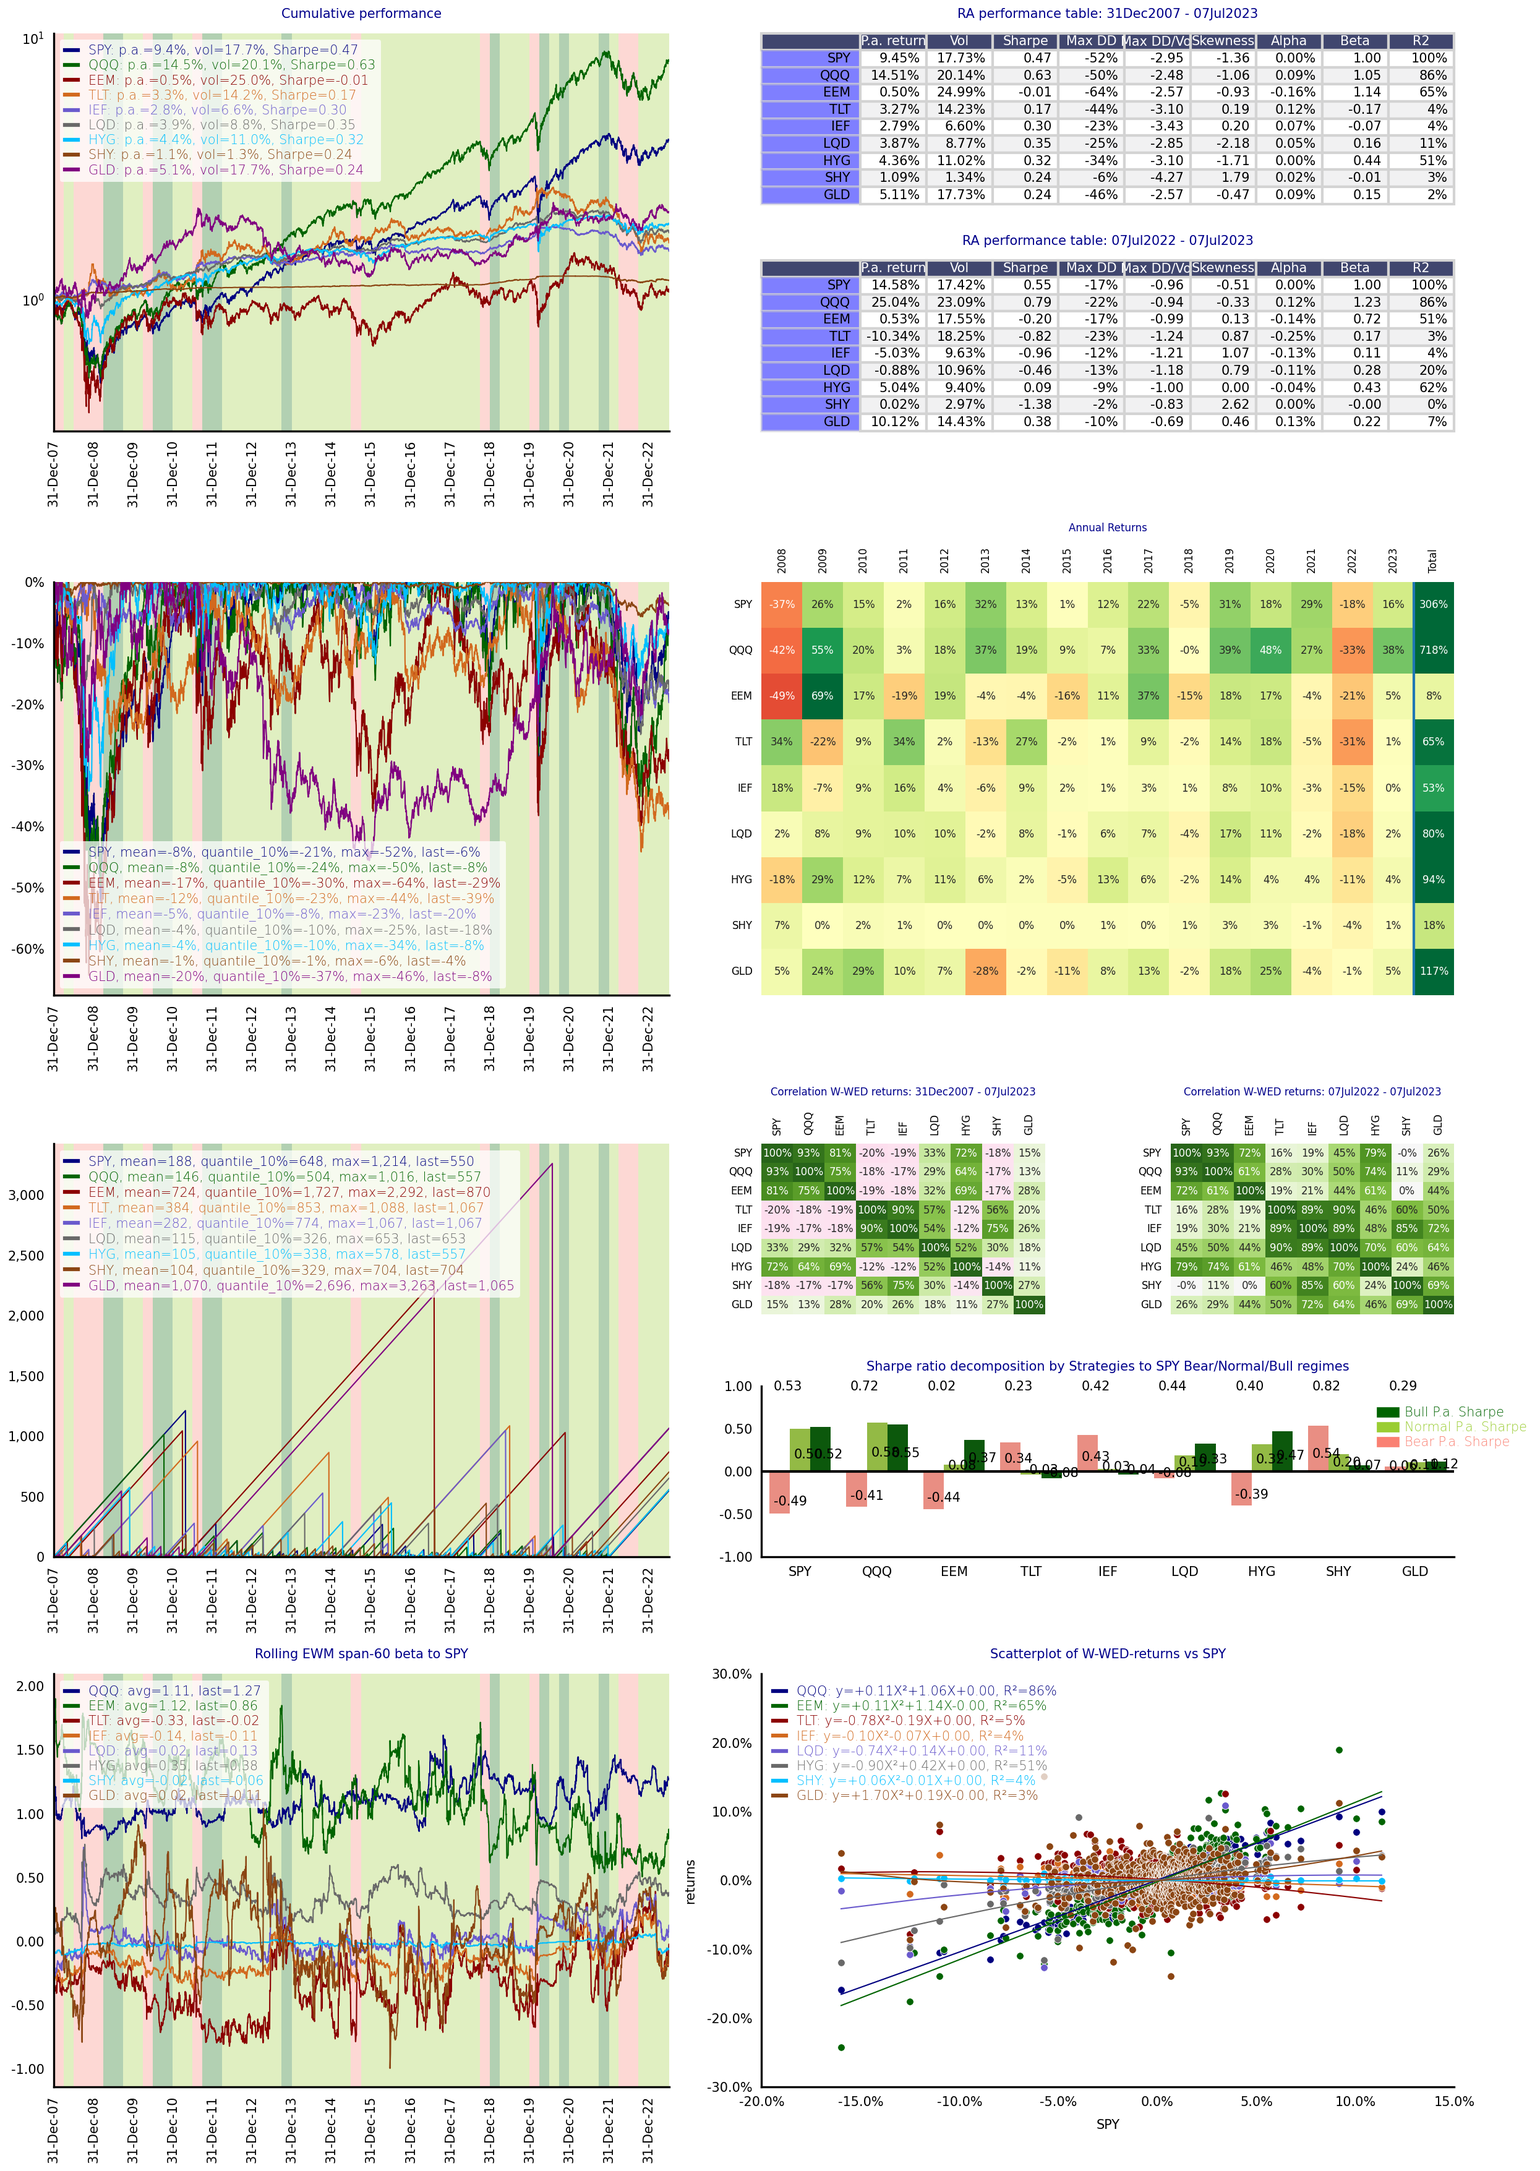
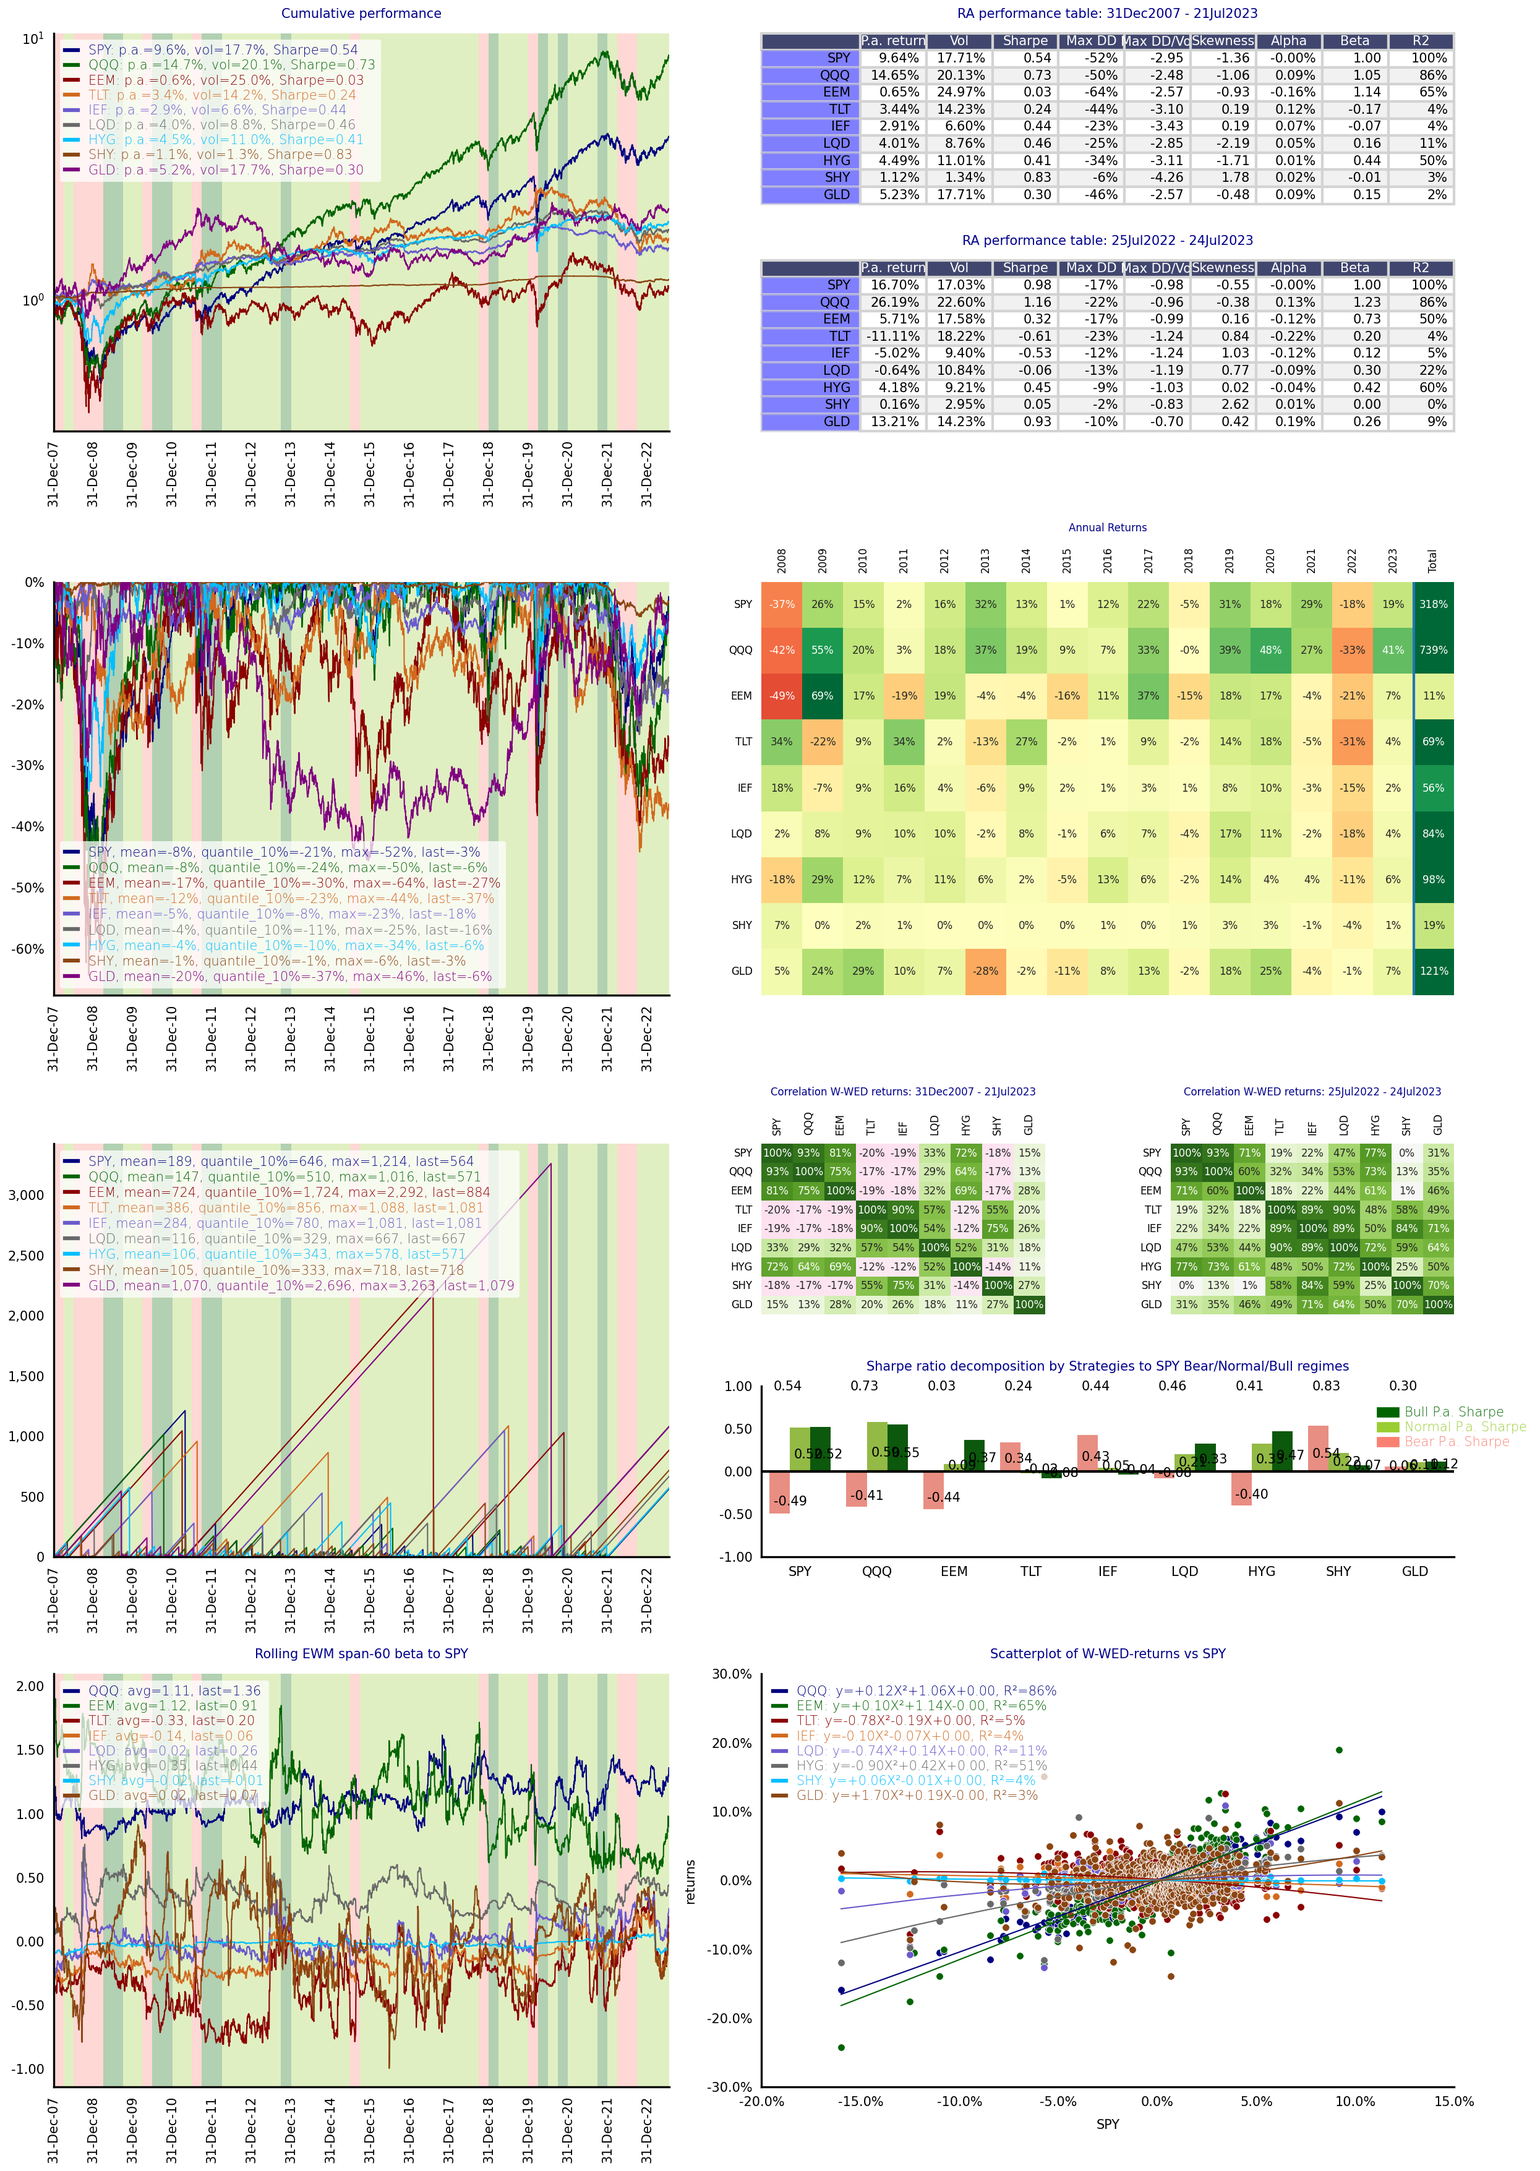
update illustrations

diff --git a/qis/utils/dates.py b/qis/utils/dates.py
@@ -23,7 +23,7 @@ WEEKDAYS: List[str] = ['Monday', 'Tuesday', 'Wednesday', 'Thursday', 'Friday', '
 
 BUS_DAYS_PER_YEAR = 252  # applied for volatility normalization
 WEEK_DAYS_PER_YEAR = 260  # calendar days excluding weekends in a year
-CALENDAR_DAYS_PER_YEAR = 360
+CALENDAR_DAYS_PER_YEAR = 365
 CALENDAR_DAYS_IN_MONTH = 30
 CALENDAR_DAYS_PER_YEAR_SHARPE = 365.25  # for total return computations for Sharpe
 
@@ -38,6 +38,100 @@ def get_current_time_with_tz(tz: Optional[str] = 'UTC',
     if days_offset is not None:
         t = t + pd.DateOffset(days=days_offset)
     return t
+
+
+def get_time_to_maturity(maturity_time: pd.Timestamp,
+                         value_time: pd.Timestamp,
+                         is_floor_at_zero: bool = True,
+                         af: float = 365
+                         ) -> float:
+    """
+    return annualised difference between mat_date and value_time
+    """
+    seconds_per_year = af * 24 * 60 * 60  # days, hours, minute, seconds
+    ttm = (maturity_time - value_time).total_seconds() / seconds_per_year
+    if is_floor_at_zero and ttm < 0.0:
+        ttm = 0.0
+    return ttm
+
+
+def get_period_days(freq: str = 'B',
+                    is_calendar: bool = False
+                    ) -> Tuple[int, float]:
+    """
+    for given frequency return number of days in the period
+    is_calendar = True should return int for rolling and resample in pandas
+    an_f will return the number of period in year
+    consistent with using 252 for vol annualization
+    """
+    an_days = 365 if is_calendar else 252
+    if freq in ['1M']:
+        days = 1.0 / 24.0 / 60.0
+        an_f = an_days * 24.0 * 60.0
+    elif freq in ['5M']:
+        days = 1.0 / 24.0 / 12.0
+        an_f = an_days * 24.0 * 12.0
+    elif freq in ['15M', '15T']:
+        days = 1.0 / 24.0 / 12.0
+        an_f = an_days * 24.0 * 4.0
+    elif freq in ['H']:
+        days = 1.0 / 24.0
+        an_f = an_days * 24.0
+    elif freq in ['D']:  # for 'D' always use 365
+        days = 1
+        an_f = 365
+    elif freq in ['B', 'C']:
+        days = 1
+        an_f = an_days
+    elif freq in ['W', 'W-MON', 'W-TUE', 'W-WED', 'W-THU', 'W-FRI', 'W-SAT', 'W-SUN']:
+        days = 7 if is_calendar else 5
+        an_f = 52
+    elif freq in ['SM', '2W', '2W-MON', '2W-TUE', '2W-WED', '2W-THU', '2W-FRI', '2W-SAT', '2W-SUN']:
+        days = 14 if is_calendar else 10
+        an_f = 26
+    elif freq in ['3W', '3W-MON', '3W-TUE', '3W-WED', '3W-THU', '3W-FRI', '3W-SAT', '3W-SUN']:
+        days = 21 if is_calendar else 15
+        an_f = 17.33
+    elif freq in ['4W', '4W-MON', '4W-TUE', '4W-WED', '4W-THU', '4W-FRI', '4W-SAT', '4W-SUN']:
+        days = 28 if is_calendar else 20
+        an_f = 13
+    elif freq in ['1M', 'M', 'BM', 'MS', 'BMS']:
+        days = 30 if is_calendar else 21
+        an_f = 12
+    elif freq in ['2M', '2BM', '2MS', '2BMS']:
+        days = 60 if is_calendar else 42
+        an_f = 6
+    elif freq in ['Q', 'DQ', 'BQ', 'QS', 'BQS', 'Q-DEC', 'Q-JAN', 'Q-FEB']:
+        days = 91 if is_calendar else 63
+        an_f = 4
+    elif freq in ['2Q', '2BQ', '2QS', '2BQS']:
+        days = 182 if is_calendar else 126
+        an_f = 2
+    elif freq in ['3Q', '3BQ', '3QS', '3BQS']:
+        days = 273 if is_calendar else 189
+        an_f = 0.75
+    elif freq in ['A', 'BA', 'AS', 'BAS']:
+        days = an_days
+        an_f = 1.0
+    else:
+        raise TypeError(f'freq={freq} is not impelemnted')
+
+    return days, an_f
+
+
+def infer_an_from_data(data: Union[pd.DataFrame, pd.Series], is_calendar: bool = False) -> float:
+    """
+    infer annualization factor for vol
+    """
+    if len(data.index) < 3:
+        freq = None
+    else:
+        freq = pd.infer_freq(data.index)
+    if freq is None:
+        print(f"in infer_an_from_data: cannot infer {freq} - using 252")
+        return 252.0
+    an, an_f = get_period_days(freq, is_calendar=is_calendar)
+    return an_f
 
 
 class FreqData(NamedTuple):
@@ -121,85 +215,6 @@ class FreqMap(FreqData, Enum):
             if freq.n_cal == n_days:
                 return freq
         raise ValueError(f"cannot map {n_days}")
-
-
-def get_period_days(freq: str = 'B',
-                    is_calendar: bool = False
-                    ) -> Tuple[int, float]:
-    """
-    for given frequency return number of days in the period
-    is_calendar = True should return int for rolling and resample in pandas
-    an_f will return the number of period in year
-    consistent with using 252 for vol annualization
-    """
-    an_days = 365 if is_calendar else 252
-    if freq in ['1M']:
-        days = 1.0 / 24.0 / 60.0
-        an_f = an_days * 24.0 * 60.0
-    elif freq in ['5M']:
-        days = 1.0 / 24.0 / 12.0
-        an_f = an_days * 24.0 * 12.0
-    elif freq in ['15M', '15T']:
-        days = 1.0 / 24.0 / 12.0
-        an_f = an_days * 24.0 * 4.0
-    elif freq in ['H']:
-        days = 1.0 / 24.0
-        an_f = an_days * 24.0
-    elif freq in ['D']:
-        days = 1
-        an_f = an_days
-    elif freq in ['B', 'C']:
-        days = 1
-        an_f = an_days
-    elif freq in ['W', 'W-MON', 'W-TUE', 'W-WED', 'W-THU', 'W-FRI', 'W-SAT', 'W-SUN']:
-        days = 7 if is_calendar else 5
-        an_f = 52
-    elif freq in ['SM', '2W', '2W-MON', '2W-TUE', '2W-WED', '2W-THU', '2W-FRI', '2W-SAT', '2W-SUN']:
-        days = 14 if is_calendar else 10
-        an_f = 26
-    elif freq in ['3W', '3W-MON', '3W-TUE', '3W-WED', '3W-THU', '3W-FRI', '3W-SAT', '3W-SUN']:
-        days = 21 if is_calendar else 15
-        an_f = 17.33
-    elif freq in ['4W', '4W-MON', '4W-TUE', '4W-WED', '4W-THU', '4W-FRI', '4W-SAT', '4W-SUN']:
-        days = 28 if is_calendar else 20
-        an_f = 13
-    elif freq in ['1M', 'M', 'BM', 'MS', 'BMS']:
-        days = 30 if is_calendar else 21
-        an_f = 12
-    elif freq in ['2M', '2BM', '2MS', '2BMS']:
-        days = 60 if is_calendar else 42
-        an_f = 6
-    elif freq in ['Q', 'DQ', 'BQ', 'QS', 'BQS', 'Q-DEC', 'Q-JAN', 'Q-FEB']:
-        days = 91 if is_calendar else 63
-        an_f = 4
-    elif freq in ['2Q', '2BQ', '2QS', '2BQS']:
-        days = 182 if is_calendar else 126
-        an_f = 2
-    elif freq in ['3Q', '3BQ', '3QS', '3BQS']:
-        days = 273 if is_calendar else 189
-        an_f = 0.75
-    elif freq in ['A', 'BA', 'AS', 'BAS']:
-        days = an_days
-        an_f = 1.0
-    else:
-        raise TypeError(f'freq={freq} is not impelemnted')
-
-    return days, an_f
-
-
-def infer_an_from_data(data: Union[pd.DataFrame, pd.Series], is_calendar: bool = False) -> float:
-    """
-    infer annualization factor for vol
-    """
-    if len(data.index) < 3:
-        freq = None
-    else:
-        freq = pd.infer_freq(data.index)
-    if freq is None:
-        print(f"in infer_an_from_data: cannot infer {freq} - using 252")
-        return 252.0
-    an, an_f = get_period_days(freq, is_calendar=is_calendar)
-    return an_f
 
 
 class TimePeriod:

diff --git a/qis/perfstats/desc_table.py b/qis/perfstats/desc_table.py
@@ -19,9 +19,10 @@ class DescTableType(Enum):
     AVG_WITH_POSITIVE_PROB = 2
     WITH_POSITIVE_PROB = 3
     WITH_KURTOSIS = 4
-    WITH_SCORE = 5
-    EXTENSIVE = 6
-    SKEW_KURTOSIS = 7
+    WITH_NORMAL_PVAL = 5
+    WITH_SCORE = 6
+    EXTENSIVE = 7
+    SKEW_KURTOSIS = 8
 
 
 def compute_desc_table(df: Union[pd.DataFrame, pd.Series],
@@ -83,6 +84,10 @@ def compute_desc_table(df: Union[pd.DataFrame, pd.Series],
         descriptive_table[PerfStat.POSITIVE.to_str(short=True, short_n=True)] = ['{:.1%}'.format(x) for x in prob]
 
     elif desc_table_type == desc_table_type.WITH_KURTOSIS:
+        descriptive_table[PerfStat.SKEWNESS.to_str(short=True, short_n=True)] = [norm_variable_display_type.format(x) for x in skew(data_np, axis=0, nan_policy=nan_policy)]
+        descriptive_table[PerfStat.KURTOSIS.to_str(short=True, short_n=True)] = [norm_variable_display_type.format(x) for x in kurtosis(data_np, axis=0, nan_policy=nan_policy)]
+
+    elif desc_table_type == desc_table_type.WITH_NORMAL_PVAL:
         descriptive_table[PerfStat.SKEWNESS.to_str(short=True, short_n=True)] = [norm_variable_display_type.format(x) for x in skew(data_np, axis=0, nan_policy=nan_policy)]
         descriptive_table[PerfStat.KURTOSIS.to_str(short=True, short_n=True)] = [norm_variable_display_type.format(x) for x in kurtosis(data_np, axis=0, nan_policy=nan_policy)]
         k2, ps = normaltest(a=data_np, axis=0, nan_policy='omit')

diff --git a/qis/examples/performances.py b/qis/examples/performances.py
@@ -4,8 +4,6 @@ import seaborn as sns
 import yfinance as yf
 import qis
 
-# skip
-import qis.file_utils as fu
 
 # define tickers and fetch price data
 tickers = ['SPY', 'QQQ', 'EEM', 'TLT', 'IEF', 'LQD', 'HYG', 'GLD']
@@ -17,7 +15,7 @@ with sns.axes_style("darkgrid"):
     qis.plot_prices(prices=prices, x_date_freq='A', ax=ax)
 
 # skip
-fu.save_fig(fig, file_name='perf1', local_path="figures/")
+qis.save_fig(fig, file_name='perf1', local_path="figures/")
 
 # with drawdowns using sns styles
 with sns.axes_style("darkgrid"):
@@ -25,7 +23,7 @@ with sns.axes_style("darkgrid"):
     qis.plot_prices_with_dd(prices=prices, x_date_freq='A', axs=axs)
 
 # skip
-fu.save_fig(fig, file_name='perf2', local_path="figures/")
+qis.save_fig(fig, file_name='perf2', local_path="figures/")
 
 # risk-adjusted performance table with specified data entries
 # add rates for excess Sharpe
@@ -43,7 +41,7 @@ fig = qis.plot_ra_perf_table(prices=prices,
                              perf_params=perf_params)
 
 # skip
-fu.save_fig(fig, file_name='perf3', local_path="figures/")
+qis.save_fig(fig, file_name='perf3', local_path="figures/")
 
 
 plt.show()

diff --git a/qis/examples/factsheets/multi_assets.py b/qis/examples/factsheets/multi_assets.py
@@ -25,7 +25,7 @@ def run_unit_test(unit_test: UnitTests):
         benchmark = 'SPY'
         tickers = ['SPY', 'QQQ', 'EEM', 'TLT', 'IEF', 'LQD', 'HYG', 'SHY', 'GLD']
         prices = yf.download(tickers=tickers, start=None, end=None, ignore_tz=True)['Adj Close'][tickers]
-        time_period = qis.TimePeriod('31Dec2007', '07Jul2023')  # time period for reporting
+        time_period = qis.TimePeriod('31Dec2007', '21Jul2023')  # time period for reporting
 
         fig = generate_multi_asset_factsheet(prices=prices,
                                              benchmark=benchmark,
@@ -36,7 +36,7 @@ def run_unit_test(unit_test: UnitTests):
         qis.save_figs_to_pdf(figs=[fig],
                              file_name=f"multiasset_report", orientation='landscape',
                              local_path=qis.local_path.get_output_path())
-        qis.save_fig(fig=fig, file_name=f"multi_assets", local_path=qis.local_path.get_output_path())
+        qis.save_fig(fig=fig, file_name=f"multiassets", local_path=qis.local_path.get_output_path())
 
     plt.show()
 

diff --git a/qis/perfstats/config.py b/qis/perfstats/config.py
@@ -57,7 +57,7 @@ class PerfStat(ColVar, Enum):
     SHARPE_LOG_AN = ColVar(name='An. Log Sharpe', short_n='An. Log Sharpe', value_type=ValueType.SHARPE)  # log return
     SHARPE_AVG = ColVar(name='Sharpe Avg', short_n='Sharpe Avg', value_type=ValueType.SHARPE)  # using avg return
     SHARPE_EXCESS = ColVar(name='Excess Sharpe', short_n='Excess\nSharpe', value_type=ValueType.SHARPE)  # compunded with rate
-    SHARPE_LOG_EXCESS = ColVar(name='Sharpe', short_n='Sharpe', value_type=ValueType.SHARPE)
+    SHARPE_LOG_EXCESS = ColVar(name='Log Sharpe', short_n='Log Sharpe', value_type=ValueType.SHARPE)
     SHARPE_APR = ColVar(name='APR Sharpe', short_n='APR\nSharpe', value_type=ValueType.SHARPE)
     MARGINAL_SHARPE = ColVar(name='Marginal Sharpe', short_n='Marginal\nSharpe', value_type=ValueType.SHARPE)
     MARGINAL_SHARPE_RATIO = ColVar(name='Marginal Sharpe Ratio', short_n='Marginal\nSharpe Ratio', value_type=ValueType.FLOAT)

diff --git a/qis/file_utils.py b/qis/file_utils.py
@@ -885,7 +885,7 @@ def save_figs(figs: Dict[str, plt.Figure],
 
 def save_figs_to_pdf(figs: Union[List[plt.Figure], Dict[str, plt.Figure]],
                      file_name: str,
-                     orientation: str = 'portrait',
+                     orientation: Literal['portrait', 'landscape'] = 'portrait',
                      local_path: Optional[str] = None,
                      add_current_date: bool = True
                      ) -> str:

diff --git a/qis/examples/factsheets/strategy.py b/qis/examples/factsheets/strategy.py
@@ -85,7 +85,7 @@ class UnitTests(Enum):
 
 def run_unit_test(unit_test: UnitTests):
 
-    time_period = qis.TimePeriod('31Dec2005', '06Jul2023')  # time period for portfolio reporting
+    time_period = qis.TimePeriod('31Dec2005', '21Jul2023')  # time period for portfolio reporting
 
     if unit_test == UnitTests.VOLPARITY_PORTFOLIO:
         prices, benchmark_prices, group_data = fetch_riskparity_universe_data()

diff --git a/qis/examples/factsheets/multi_strategy.py b/qis/examples/factsheets/multi_strategy.py
@@ -68,7 +68,7 @@ class UnitTests(Enum):
 
 def run_unit_test(unit_test: UnitTests):
 
-    time_period = qis.TimePeriod('31Dec2005', '06Jul2023')  # time period for portfolio reporting
+    time_period = qis.TimePeriod('31Dec2005', '21Jul2023')  # time period for portfolio reporting
 
     if unit_test == UnitTests.VOLPARITY_SPAN:
         prices, benchmark_prices, group_data = fetch_riskparity_universe_data()

diff --git a/qis/examples/factsheets/strategy_benchmark.py b/qis/examples/factsheets/strategy_benchmark.py
@@ -77,7 +77,7 @@ def run_unit_test(unit_test: UnitTests):
 
     if unit_test == UnitTests.VOLPARITY_STRATEGY:
 
-        time_period = qis.TimePeriod('31Dec2005', '06Jul2023')  # time period for portfolio reporting
+        time_period = qis.TimePeriod('31Dec2005', '21Jul2023')  # time period for portfolio reporting
 
         prices, benchmark_prices, group_data = fetch_riskparity_universe_data()
 

diff --git a/setup.py b/setup.py
@@ -16,7 +16,7 @@ requirements = read_requirements("requirements.txt")
 
 setup(
     name='qis',
-    version='2.0.3',
+    version='2.0.4',
     author='Artur Sepp',
     author_email='artursepp@gmail.com',
     url='https://github.com/ArturSepp/QuantInvestStrats',

diff --git a/qis/utils/__init__.py b/qis/utils/__init__.py
@@ -14,6 +14,7 @@ from qis.utils.dates import (
     get_weekday,
     get_year_quarter,
     get_ytd_time_period,
+    get_time_to_maturity,
     infer_an_from_data,
     is_leap_year,
     months_between,
